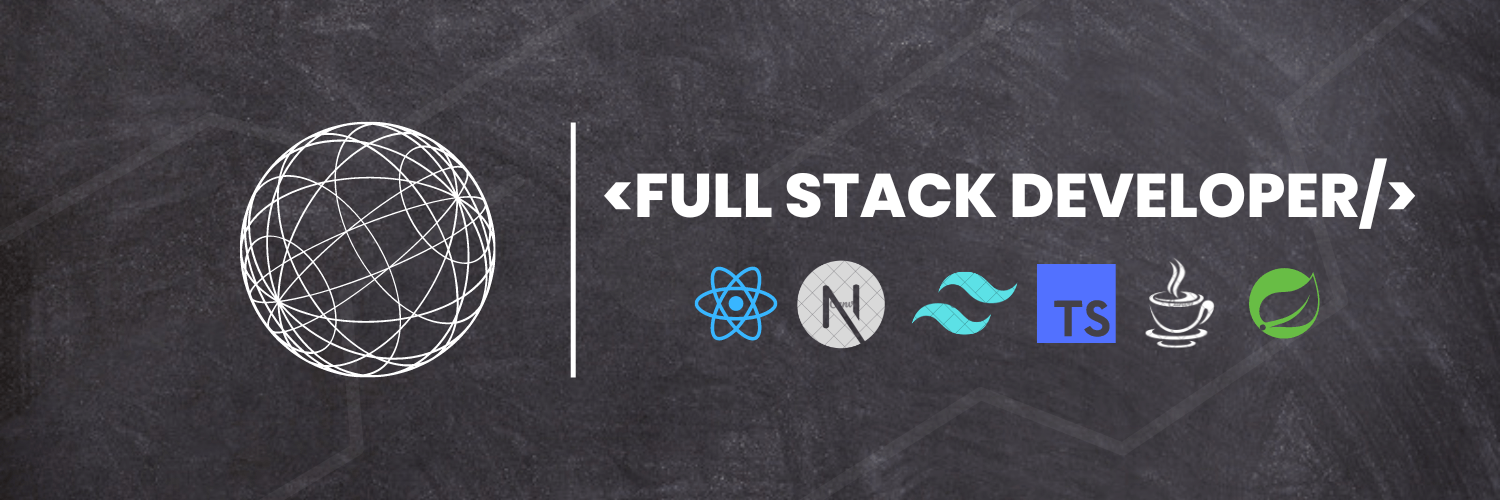
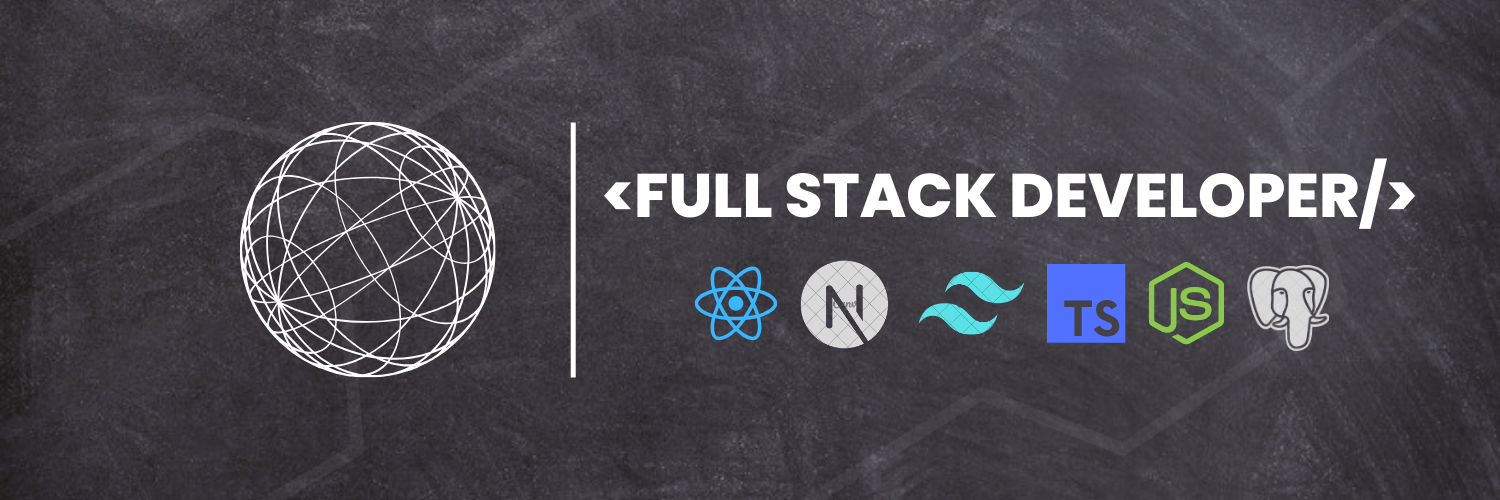
add changes

Changed region(s): [[0.5213, 0.51, 0.8893, 0.72]]

diff --git a/README.md b/README.md
@@ -28,8 +28,14 @@
 
 [![React Badge](https://img.shields.io/badge/-React-61dafb?style=for-the-badge&labelColor=black&logo=react&logoColor=61dafb)](#)
 [![NextJS Badge](https://img.shields.io/badge/-nextjs-black?style=for-the-badge&labelColor=black&logo=next.js&logoColor=lightgray)](#)
-[![Spring](https://img.shields.io/badge/-Spring-6DB33F?style=for-the-badge&labelColor=black&logo=spring&logoColor=6DB33F)](#)
-[![Spring Boot](https://img.shields.io/badge/-Spring%20Boot-6DB33F?style=for-the-badge&labelColor=black&logo=springboot&logoColor=6DB33F)](#)
+[![Nodejs Badge](https://img.shields.io/badge/-Nodejs-3C873A?style=for-the-badge&labelColor=black&logo=node.js&logoColor=3C873A)](#)
+[![Express Badge](https://img.shields.io/badge/-Express-ddd?style=for-the-badge&labelColor=black&logo=express&logoColor=white)](#)
+[![POSTGRESQL Badge](https://img.shields.io/badge/-Postgre_SQL-3587bd?style=for-the-badge&labelColor=black&logo=postgresql&logoColor=white)](#)
+
+[//]: # ([![MongoDB Badge]&#40;https://img.shields.io/badge/-MongoDB-13AA52?style=for-the-badge&labelColor=white&logo=mongodb&logoColor=13AA52&#41;]&#40;#&#41;)
+
+[//]: # ([![Spring]&#40;https://img.shields.io/badge/-Spring-6DB33F?style=for-the-badge&labelColor=black&logo=spring&logoColor=6DB33F&#41;]&#40;#&#41;)
+[//]: # ([![Spring Boot]&#40;https://img.shields.io/badge/-Spring%20Boot-6DB33F?style=for-the-badge&labelColor=black&logo=springboot&logoColor=6DB33F&#41;]&#40;#&#41;)
 <!-- [![Redux Badge](https://img.shields.io/badge/-redux-764ABC?style=for-the-badge&labelColor=black&logo=redux&logoColor=764ABC)](#) -->
 
 
